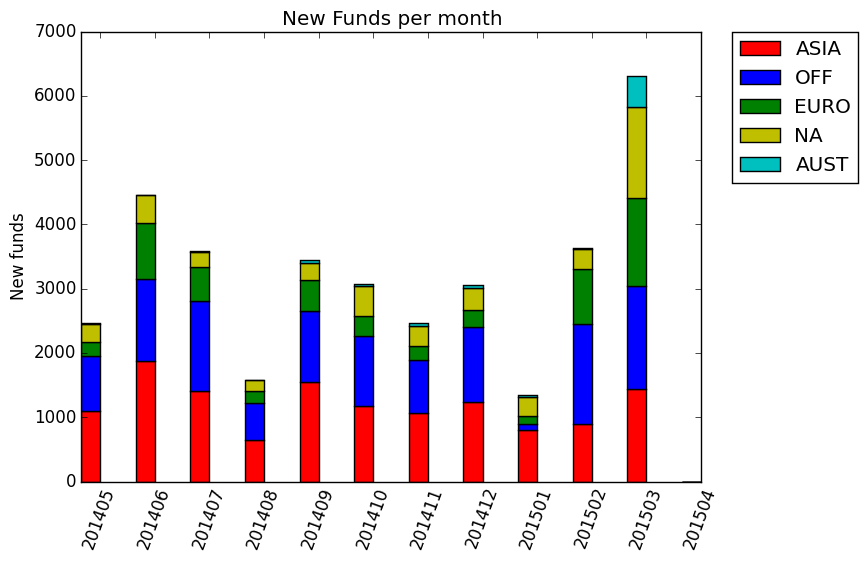
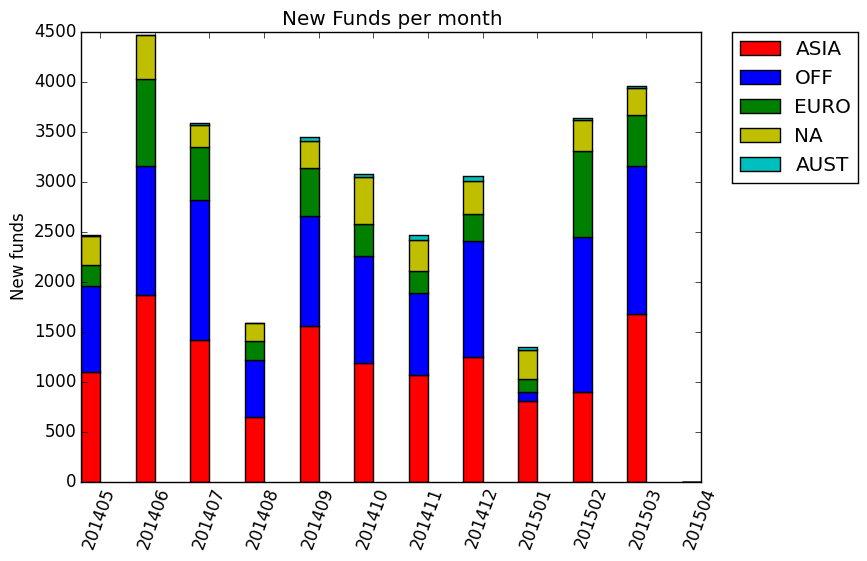
Changed Insert to Upsert
Fixed a bug by changing the insert statement into an upsert so only the
most recent data for the month is in the database

diff --git a/SQLHelper.py b/SQLHelper.py
@@ -37,23 +37,9 @@ class graph:
 		plt.xticks(rotation=70)
 		plt.gcf().subplots_adjust(bottom=0.15)
 
-	# def generateGraph(self):
-	# 	self.ax.bar(self.ind, self.y, self.width, color='r')
-	# 	plt.savefig(self.destination)
-	# 	plt.clf()		
-
-	# def generateStackedGraph(self):
-	# 	barlist = []
-	# 	bottombar = [0]*len(self.y[0])
-	# 	for index, bars in enumerate(self.y):
-	# 		barlist.append(self.ax.bar(self.ind, bars, self.width, color=self.colorarray[index], bottom = bottombar)[0])
-	# 		bottombar = [i+bars[index] for index,i in enumerate(bottombar)]
-
-	# 	lgd = plt.legend(barlist,self.legend,bbox_to_anchor=(1.05, 1), loc=2, borderaxespad=0.)
-	# 	plt.savefig(self.destination, bbox_extra_artists=(lgd,), bbox_inches='tight')
-	# 	plt.clf()
-
 class barGraph(graph):
+
+	print "barGraph"
 
 	def __init__(self,x,y,title,ylable,destination,N=9,legend=None):
 		graph.__init__(self,x,y,title,ylable,destination,N,legend)
@@ -65,6 +51,8 @@ class barGraph(graph):
 		plt.clf()
 
 class stackedBarGraph(graph):
+
+	print "stackedBarGraph"
 
 	def __init__(self,x,y,title,ylable,destination,N=9,legend=None):
 		graph.__init__(self,x,y,title,ylable,destination,N,legend)
@@ -84,23 +72,27 @@ class stackedBarGraph(graph):
 #function to generate a trailing monthly list and execute a general query function on those months. Used by most of the processing
 
 def generateTrailingMonthlyLists(name,QueryFunction,months,date):
+
+	print "generateTrailingMonthlyLists", name
+
 	monthsList = []
 	countlist = []
 
 	db = sqlite3.connect('C:\\Users\\amahan\\Desktop\\data-import-dash\\dataDash.db')
 
 	for index, record in enumerate(QueryFunction(date)):
-		db.execute('INSERT INTO monthlyData (name, value,date,number) VALUES (?, ?,?,?)',[name, record, str(date.strftime("%Y%m")),index])
+		db.execute('INSERT OR REPLACE INTO monthlyData (name, value,date,number,id) VALUES (?, ?,?,?,?)',[name, record, str(date.strftime("%Y%m")),index,name+str(date.strftime("%Y%m"))+str(index)])
 		db.commit()
 
 	trailingDate = date - dateutil.relativedelta.relativedelta(months= months -1) 
 	results  = db.execute('''SELECT DISTINCT * FROM monthlyData WHERE name = ? AND date <= ? AND date >= ?  ORDER BY date ASC''', [name, str(date.strftime("%Y%m")), str(trailingDate.strftime("%Y%m"))] )
 
 
-	# for month in range(20):
+	# for month in range(1,20):
 	# 	trailingDate = date - dateutil.relativedelta.relativedelta(months=month)
 	# 	for index, record in enumerate(QueryFunction(trailingDate)):
-	# 		db.execute('INSERT INTO monthlyData (name, value,date,number) VALUES (?, ?,?,?)',[name, record, str(trailingDate.strftime("%Y%m")),index])
+	# 		print name+str(trailingDate.strftime("%Y%m"))+str(index)
+	# 		db.execute('INSERT INTO monthlyData (name, value,date,number,id) VALUES (?, ?,?,?,?)',[name, record, str(trailingDate.strftime("%Y%m")),index,name+str(trailingDate.strftime("%Y%m"))+str(index)])
 	# 		db.commit() 
 
 	resultsDict = collections.OrderedDict()
@@ -119,12 +111,15 @@ def generateTrailingMonthlyLists(name,QueryFunction,months,date):
 			resultList.append(count[1])
 		countlist.append(resultList)
 
-	print countlist,name
+	print monthsList
 	return monthsList,countlist    
 
 #ASSET PROCESSING
 
 def getAssetsUpdatedThisMonth(date = datetime.datetime.now()):
+
+	print "getAssetsUpdateThisMonth"
+
 	date = date.strftime("%Y%m")
 	cursor.execute("SELECT count(*) count FROM LIG.Asset WHERE PeriodIDCreated = '%s' AND AssetValue IS NOT NULL "%date)
 	result = cursor.fetchall()
@@ -133,6 +128,9 @@ def getAssetsUpdatedThisMonth(date = datetime.datetime.now()):
 	    return [row.count]
 
 def getLatestAssetDate():
+
+	print "getLatestAssetDate"
+
 	cursor.execute("SELECT Top 1 PeriodIDCreated FROM LIG.Asset ORDER BY PeriodIDCreated DESC ")
 	result = cursor.fetchall()
 
@@ -140,6 +138,8 @@ def getLatestAssetDate():
 	    return datetime.datetime.strptime(str(row.PeriodIDCreated), "%Y%m")
 
 def generateAssetGraph(date):
+
+	print "generateAssetGraph"
 
 	monthsback = 12
 	mon, coun = generateTrailingMonthlyLists("Asset",getAssetsUpdatedThisMonth,monthsback,date)
@@ -150,6 +150,9 @@ def generateAssetGraph(date):
 #ASSET THIS MONTH PROCESSING
 
 def generateAssetMonthly(latestAssetDate):
+
+	print "generateAssetMonthly"
+
 	cnxn = po.connect('DRIVER={SQL Server Native Client 10.0};SERVER=GLDB;DATABASE=siVendors;Trusted_Connection=yes')
 	cursor = cnxn.cursor()
 
@@ -188,6 +191,9 @@ def generateAssetMonthly(latestAssetDate):
 #NEW FUND PROCESSING
 
 def getNewFundsThisMonth(d = datetime.datetime.now()):
+
+    print "getNewFundsThisMonth"
+
     cnxn = po.connect('DRIVER={SQL Server Native Client 10.0};SERVER=GLDB;DATABASE=siGlobalResearch;Trusted_Connection=yes')
     cursor = cnxn.cursor()
     d = d.replace(day = 1)
@@ -212,6 +218,8 @@ def getNewFundsThisMonth(d = datetime.datetime.now()):
         
         '''% (str(d), str(d2), region))
         result = cursor.fetchall()
+
+        print d,d2,region
         
         for row in result:
              returnList.append(row.count)
@@ -219,6 +227,9 @@ def getNewFundsThisMonth(d = datetime.datetime.now()):
     return returnList
 
 def generateNewFundsGraph(date = datetime.datetime.now()):
+
+    print "generateNewFundsGraph"
+
     monthsback = 12
     mon, coun = generateTrailingMonthlyLists("funds",getNewFundsThisMonth,monthsback,date)
     coun = zip(*coun)
@@ -230,6 +241,9 @@ def generateNewFundsGraph(date = datetime.datetime.now()):
 #ICRA processing
 
 def getICRAaddedThisMonthRawDB(d = datetime.datetime.now()):
+
+	print "getICRAaddedThisMonthRawDB"
+
 	cnxn = po.connect('DRIVER={SQL Server Native Client 10.0};SERVER=GLDB;DATABASE=RawDB;Trusted_Connection=yes')
 	cursor = cnxn.cursor()
 	d = d.replace(day = 1)
@@ -245,6 +259,9 @@ def getICRAaddedThisMonthRawDB(d = datetime.datetime.now()):
 		return [row.count]
 
 def generateICRAGraphRawDB(date = datetime.datetime.now()):
+
+	print "generateICRAGraphRawDB"
+
 	monthsback = 12
 	mon, coun = generateTrailingMonthlyLists("ICRARawDB",getICRAaddedThisMonthRawDB,monthsback,date)
 	coun = [x[0] for x in coun]
@@ -255,6 +272,9 @@ def generateICRAGraphRawDB(date = datetime.datetime.now()):
 
 
 def getICRAaddedThisMonth(d = datetime.datetime.now()):
+
+	print "getICRAaddedThisMonth"
+
 	cnxn = po.connect('DRIVER={SQL Server Native Client 10.0};SERVER=GLDB;DATABASE=siGlobalResearch;Trusted_Connection=yes')
 	cursor = cnxn.cursor()
 	d = d.replace(day = 1)
@@ -270,6 +290,9 @@ def getICRAaddedThisMonth(d = datetime.datetime.now()):
 	    return [row.count]	
 
 def generateICRAGraph(date = datetime.datetime.now()):
+
+	print "generateICRAGraph"
+
 	monthsback = 12
 	mon, coun = generateTrailingMonthlyLists("ICRA",getICRAaddedThisMonth,monthsback,date)
 	coun = [x[0] for x in coun]
